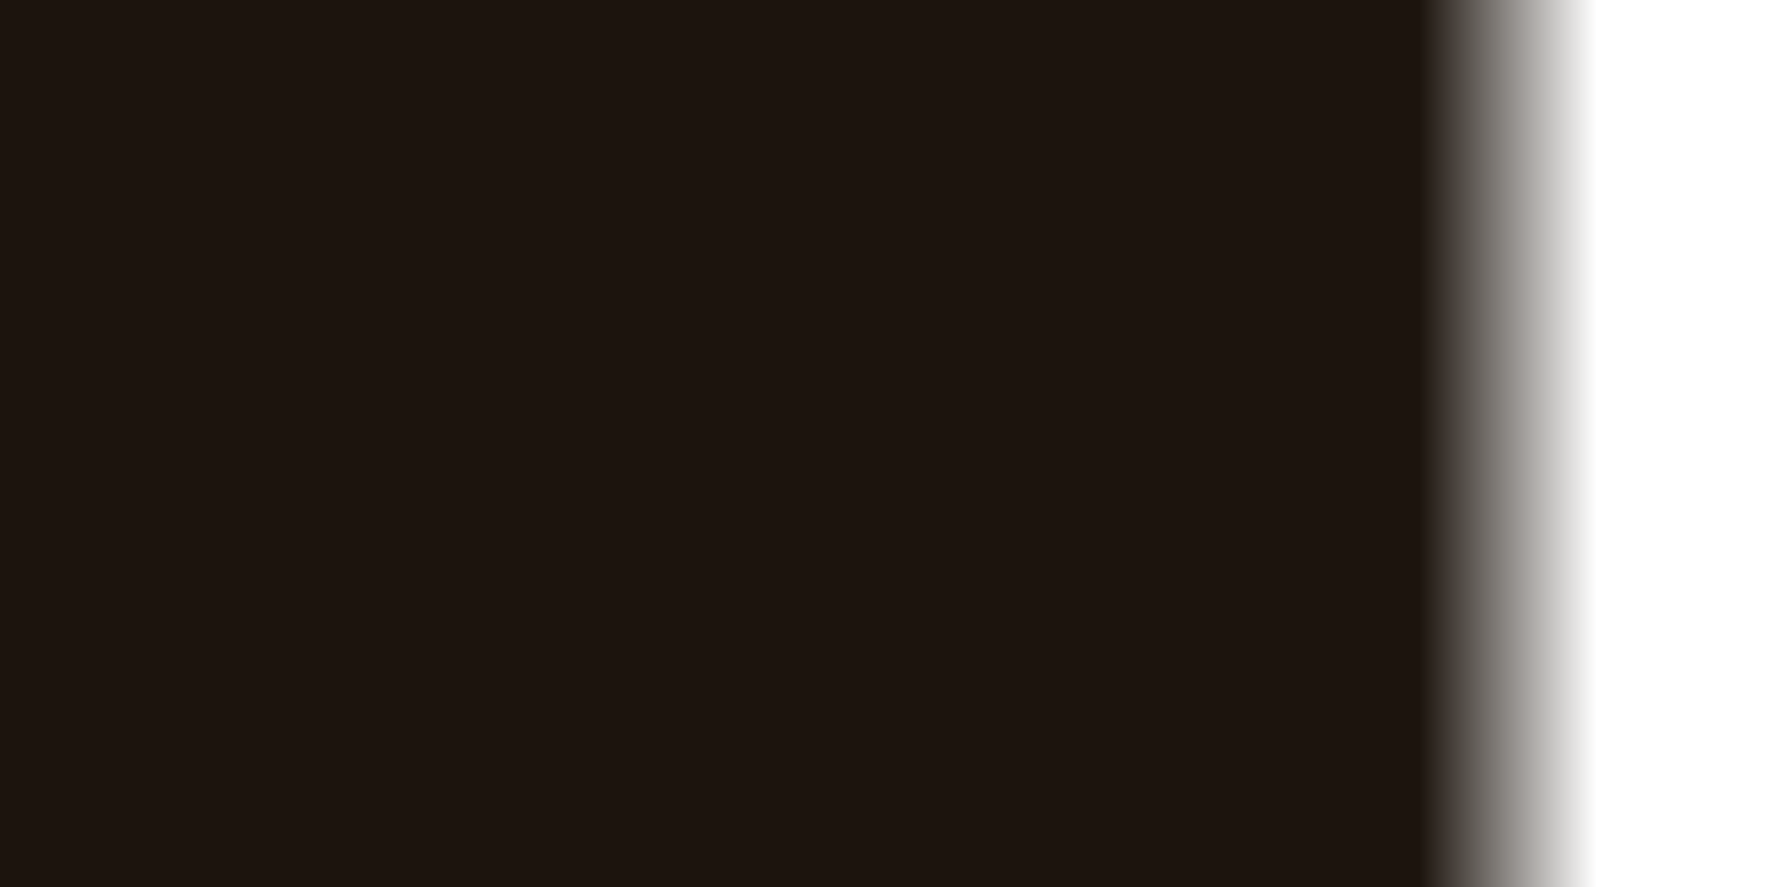
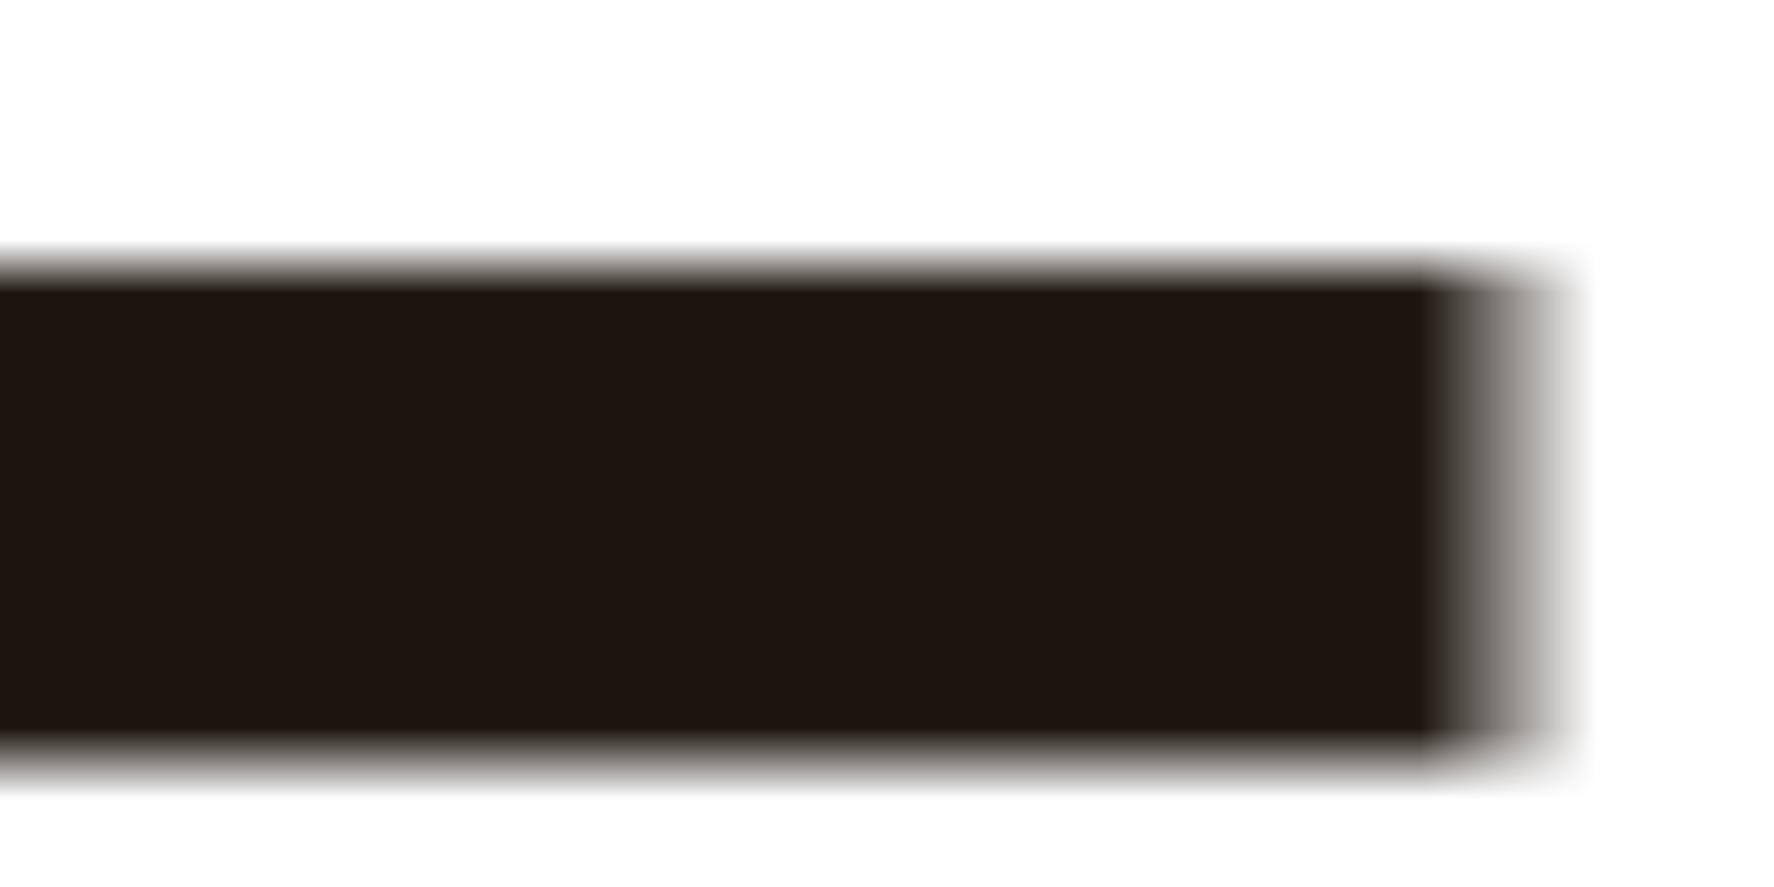
修复遮罩把整个左侧上下区域都盖住的问题，恢复顶部/底部地图纹理
遮罩之前只按水平方向（fx）做渐变，对所有高度一视同仁地遮盖，导致本不该有文字、
理应露出地图点阵的顶部与底部大片区域也被盖黑。改为真正的二维遮罩：只在文字实际
所在的垂直范围（fy约0.33–0.82）内才按水平方向遮盖，范围外完全透明，和参考图一致。

伦敦节点原先的"是否在遮罩区"判断只看fx，遮罩改成二维后伦敦的fy已不在遮罩区内，
但判断逻辑没跟着变，导致canvas又在已经露出的烘焙"伦敦"标签上重复画了一遍。
同步改成二维判断（fx<0.78 且 0.30<fy<0.85），恢复成单一标签。

Claude-Session: https://claude.ai/code/session_015bUyjti36PNUkB2FQY5dZb

diff --git a/assets/main.js b/assets/main.js
@@ -186,14 +186,15 @@
         ctx.fill();
         ctx.restore();
         /* City-name labels are baked into the hero-cover.jpg backdrop
-           (Chinese, drawn beside each dot) for nodes on the right ~2/3 of
-           the image. Nodes further left fall inside the text-safety mask
-           that hides the backdrop there, so we draw our own label for
-           those regardless of language. On the unmasked right side we only
-           draw (English) in EN mode, offset BELOW the dot so it never
-           sits directly on the baked Chinese text. */
+           (Chinese, drawn beside each dot). The text-safety mask only
+           covers a specific box in the image (roughly fx<0.8, fy 0.33-0.82
+           — see hero-text-mask.png) that hides the backdrop there, so we
+           draw our own label for nodes inside that box regardless of
+           language. Nodes outside the mask box keep their baked Chinese
+           label visible; we only add an (English) label there in EN mode,
+           offset BELOW the dot so it never sits on the baked Chinese text. */
         var lc = c.lab || {};
-        var inMaskedZone = c.fx < 0.68;
+        var inMaskedZone = c.fx < 0.78 && c.fy > 0.30 && c.fy < 0.85;
         if (!lc.hide && (lang === 'en' || inMaskedZone)) {
           ctx.font = '600 10px Archivo, "Noto Sans SC", sans-serif';
           ctx.fillStyle = isGold ? 'rgba(247,214,140,.9)' : 'rgba(243,239,222,.55)';
